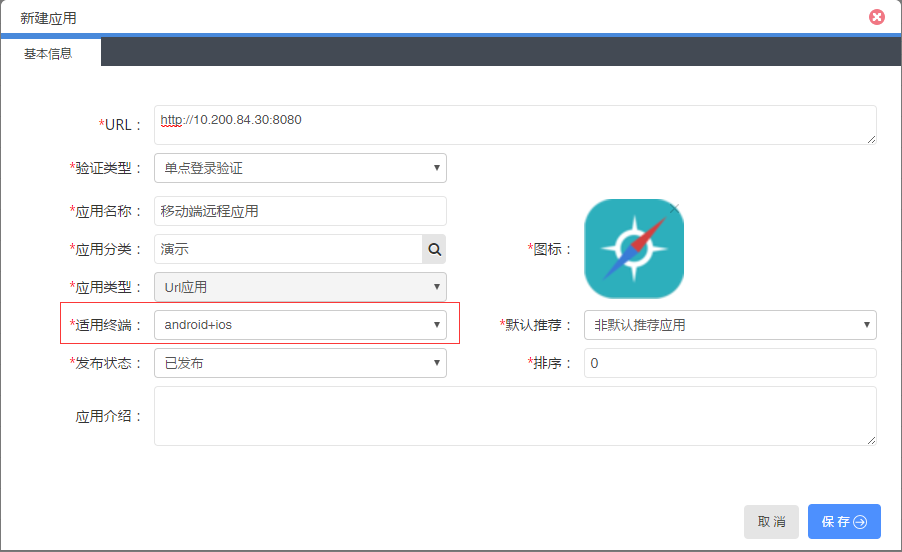
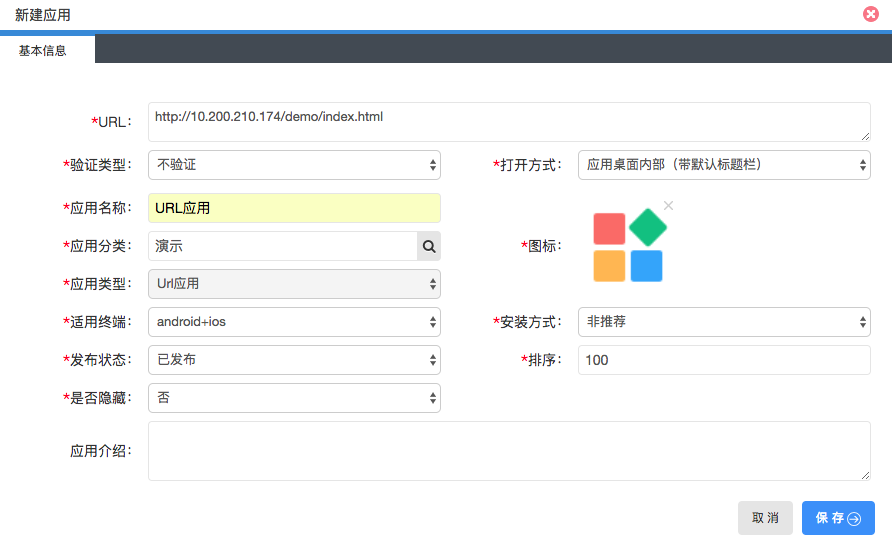
完善文档

diff --git a/scence/linkappmanager.md b/scence/linkappmanager.md
@@ -1,35 +1,43 @@
-# Link应用管理
+# Link应用接入
 
 Link应用有五种类型，分别是：
 
-* URL类 - 远程URL网页接入,支持移动、桌面、web终端
-* APP类 - 支持本地网页接入、原生APP接入，支持移动终端
-* 流程类 - 暂无
-* 聊天类 - 暂无
-* 其他类 - 暂无
+* URL类 - 支持打开远程网页
+* APP类 - 支持打开基于BT或者Weex开发的轻应用（仅移动端）
+* 流程类 - 支持打开自由流程和固定流程
+* 聊天类 - 支持打开Link内置的发起聊天功能
+* 其他类 - 基础指令类应用，在以上种类不满足的情况下，可以通过基础指令打开（具体指令请咨询管理员）
 
-这五种类型应用，目前聆客平台支持的主要是前面两种类型应用，这些应用在聆客管理平台中发布到聆客应用市场，可以通过聆客的三个终端入口（Mobile、Web、Desktop）进行访问，下面先了解一下Link应用在三个终端入口的体现：
-
-### 聆客移动端入口
-
-移动端入口是安装在移动操作系统上的原生App，目前仅支持IOS和Android两个系统，下面是IOS端聆客App的截图实例，可以访问<a href="https://www.bingolink.biz/default/download.html" target="_blank">聆客官网</a>下载安装：
+## 移动端入口
+首页推荐应用 、应用列表
 
 <img src="./assets/app1.png" width='300px'/> <img src="./assets/app2.png" width='300px'/>
 
 
-### 聆客web入口
+## PC桌面入口
 
-Web入口是一个通过浏览器访问的网站，下面是网站的截图示例，可以登录<a href="https://www.bingolink.biz/default/download.html" target="_blank">聆客官网</a>进行访问：
 
 <img src="./assets/app3.jpeg" width='900px'/>
 
-### 聆客桌面入口
 
-桌面入口是安装在桌面操作系统上的原生应用程序，目前已经正式支持Windows（XP及以上）、Mac OS两个操作系统，Linux也在内部测试中。下面是Mac OS桌面应用的截图示例，可以访问<a href="https://www.bingolink.biz/default/download.html" target="_blank">聆客官网</a>下载安装：
+## webos入口
 
 <img src="./assets/app4.jpeg" width='900px'/>
 
 
+# 接入流程
+
+在接入Link应用之前，首先您需要获取一个聆客中有开发者权限的账号，聆客分为公有云和私有云两个版本，公有云版在线注册账号即可使用，私有版本则需要联系私有聆客的管理员分配账号。
+
+如果您不是为本企业的聆客开发应用，而是作为第三方开发者（或者开发商）为某个企业的聆客（包括公有和私有环境）开发并发布应用，我们建议采用以下流程：
+
+* 申请一个在线聆客账号，在这个账号中进行体验甚至开发测试
+* 如果该企业提供私有测试环境，拿到此环境的账号进行开发测试
+* 发布应用时把应用信息或程序包提交给企业的应用管理员进行操作
+* 使用该企业的测试账号或者由该企业的用户进行真实环境验测。
+
+
+接下来的内容我们使用在线聆客的标准版本进行描述。
 
 
 

diff --git a/scence/urlapp.md b/scence/urlapp.md
@@ -1,0 +1,45 @@
+# 远程URL网页接入
+
+> 在接入应用前，您首先要向管理员申请到 `应用管理` 的功能权限。
+
+* 支持移动终端的应用
+* 支持桌面、web终端的应用
+
+
+## 1.打开应用管理
+登录聆客Web桌面，打开桌面上的应用管理功能图标。
+
+<img src="./assets/package1.png" width='300px'/>
+
+## 2.新建应用
+
+点击新建按钮，选择新建URL类应用。
+
+<img src="./assets/package-app1.png" width='790px'/>
+
+<img src="./assets/package-app2.png" width='800px'/>
+
+* URL ： 打开的目标地址（如果系统是部署成https的站点，这里填写的URL也需要是https的地址）
+* 验证类型：是否需要接入单点登录（统一认证）
+* 适用终端：选择android+ios 【支持移动端的应用】  |  标准web应用 【支持桌面、web终端的应用】
+* 安装方式：
+ * `非推荐`：应用需要手动添加
+ * `推荐安装`：应用会出现在首页推荐里
+ * `强制安装`：应用会出现在首页推荐里，并且不能移除
+
+更多设置信息，请根据页面指引进行填写。
+
+
+## 3.应用授权
+
+新建的应用，可以根据部门、角色进行授权。
+
+![](./assets/package-app-auth.png)
+
+## 4.发布应用
+
+在步骤3中的发布状态选择已发布，保存应用后可以在聆客上看到刚才创建的新应用。
+
+<img src="./assets/package-app3.png" width='300px'/>
+<img src="./assets/package-app6.png" width='400px'/>
+

diff --git a/SUMMARY.md b/SUMMARY.md
@@ -26,8 +26,7 @@
   * [MVue框架](framework/mvue.md)
 * 使用场景
   * [登录认证](scence/ssoauth.md)
-  * [Link应用管理](scence/linkappmanager.md)
-    * [接入指南](scence/guide.md)
-	    * [远程URL网页接入](scence/url.md)
-	    * [本地网页接入](scence/localpackage.md)
-	    * [原生APP接入](scence/app.md)
+  * [Link应用接入](scence/linkappmanager.md)
+    * [远程URL网页接入](scence/urlapp.md)
+    * [本地网页接入](scence/localpackage.md)
+    * [原生APP接入](scence/app.md)
